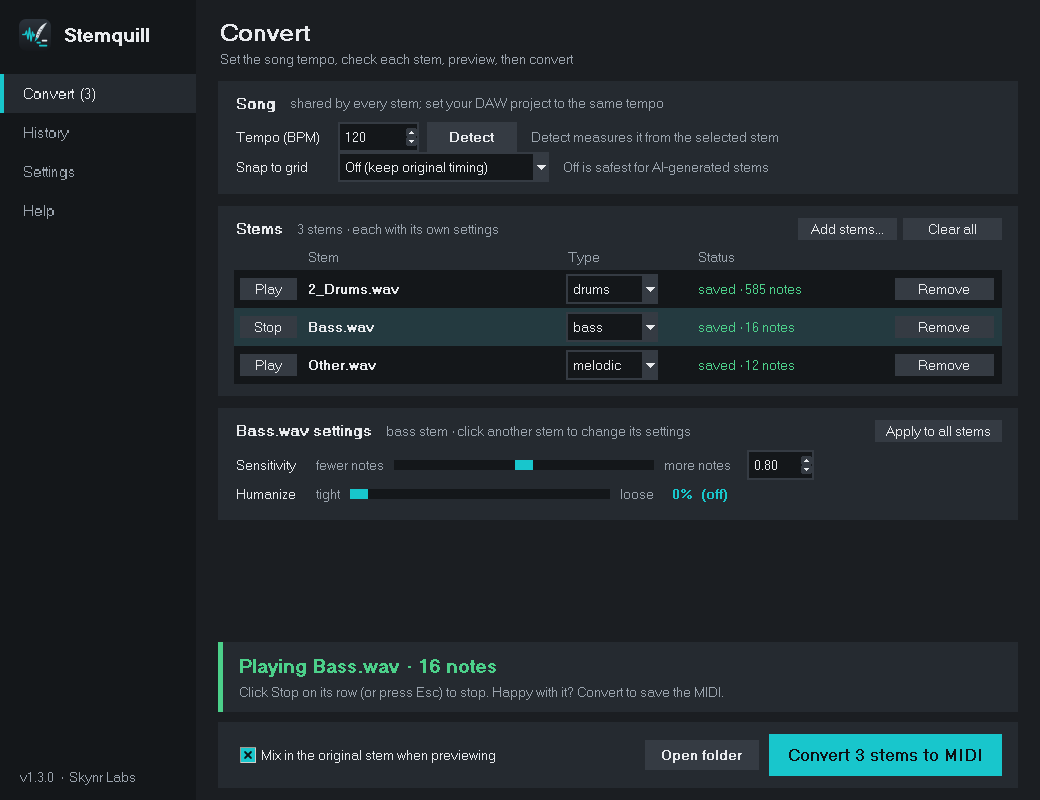
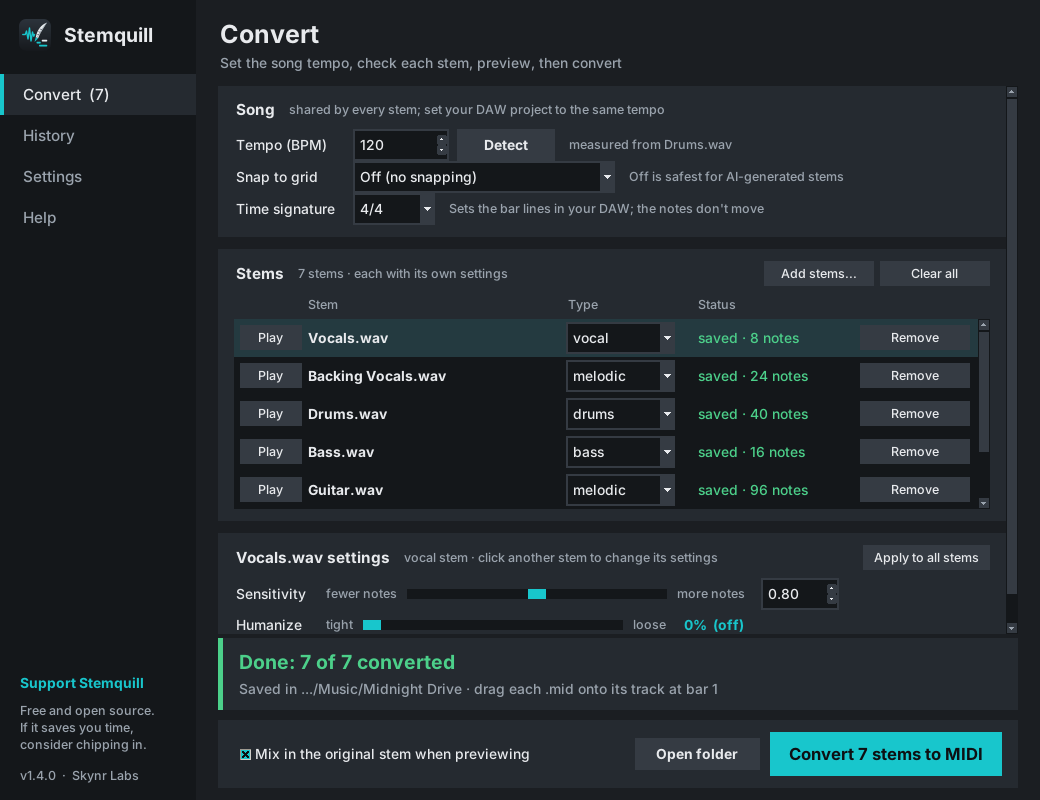
README and CONTRIBUTING for 1.4.0, new screenshot
- README: Suno stems and the stem-name table (type and instrument sound),
  natural vocals and slides, start-up troubleshooting (slow first start,
  crash log, drag and drop off), privacy note covers the crash log and
  cache, project structure, new 1.4.0 screenshot
- CONTRIBUTING: build the installer on GitHub (Run workflow) or on a PC

diff --git a/README.md b/README.md
@@ -23,6 +23,8 @@ Free to download. Pay what you want on [itch.io](https://skynrlabs.itch.io/stemq
 
 Stemquill is a free desktop tool that listens to an audio stem and writes out what it hears as a MIDI file. Drop in a drum stem and you get kick, snare, hats, toms and cymbals on the right notes for your drum plugin. Drop in a bass or vocal stem and you get the melody line. Guitar, keys and synth stems come out as chords.
 
+It's made with AI stems in mind: drop in a whole folder of Suno stems and each one gets the right type and a matching instrument sound, and slightly off-pitch AI vocals still come out as the notes that were sung.
+
 Drag the `.mid` file into Waveform, FL Studio, Ableton, Reaper, Logic, Cubase or any other DAW, put your own instrument on it, and the part is yours to play, edit and rework.
 
 ---
@@ -39,6 +41,8 @@ Stemquill is the bridge: audio in, MIDI out, with a preview so you can hear the 
 
 - 🥁 **Full drum kit detection**: kick, snare, closed and open hi-hat, high/mid/low toms, crash and ride
 - 🎸 **Melodic stems**: bass and vocal lines as single notes, guitar, keys and synths as chords
+- 🎤 **Natural vocals and bass**: corrects a voice that sits a little sharp or flat, holds notes through vibrato, and keeps slides as two notes instead of a run of short ones
+- 🏷 **Knows your stems**: Suno's stem names (Vocals, Backing Vocals, Drums, Percussion, Bass, Guitar, Keyboard, Strings, Brass, Woodwinds, Synth, FX) pick the right type and a matching instrument sound in your DAW
 - ⏱ **Tempo detection**: measures the real BPM from a stem so your MIDI lines up with your DAW grid
 - ▶ **Preview before saving**: play any stem from its row with built-in sounds, with the original stem mixed in to check the timing
 - 🎚 **Humanize**: small timing and velocity changes so parts feel played, not programmed
@@ -99,7 +103,7 @@ python -m stemquill
 
 Everything happens on the **Convert** page, top to bottom:
 
-1. **Drop your stems** (or a whole folder of them) onto the window, or click **Add stems...** (WAV, MP3, FLAC, AIFF, OGG or M4A). Each stem gets its own row. Its type is read from the file name ("Drums", "Bass", "Vocals", "Other"); change it in the row if needed.
+1. **Drop your stems** (or a whole folder of them) onto the window, or click **Add stems...** (WAV, MP3, FLAC, AIFF, OGG or M4A). Each stem gets its own row. Its type is read from the file name (see [Stem names](#-stem-names)); change it in the row if needed.
 2. **Song:** click **Detect** to measure the tempo from the selected stem, or type the BPM. Tempo, **Snap to grid** and **Time signature** are shared by every stem, because it's one song. Get the tempo right: it decides which beat each note lands on.
 3. **Click a stem** to see its own settings underneath: **Sensitivity**, **Humanize** and, for drum stems, which drums to write and the drum map. **Apply to all stems** copies them to the rest.
 4. Click **Play** on a stem's row to hear it with built-in sounds; the button turns into **Stop** while it plays. Keep **Mix in the original stem** ticked to check the timing against the real audio.
@@ -118,6 +122,28 @@ Then set your DAW project to the same tempo and drag each `.mid` onto its instru
 | `vocal` | The lead vocal melody as single notes |
 | `melodic` | Guitar, keys, fiddle and chords (several notes at once) |
 | `synth` | Synths and pads (several notes at once) |
+
+### 🏷 Stem names
+
+Stemquill reads the stem's file name to pick its type and the instrument sound your DAW plays it with. The names cover Suno's stems and the usual names from other splitters:
+
+| File name contains | Type | Sound in your DAW |
+|---|---|---|
+| Drums, Percussion | `drums` | Your drum plugin (channel 10) |
+| Bass | `bass` | Fingered bass |
+| Vocals, Vox, Voice | `vocal` | Choir |
+| Backing Vocals, Harmony, Choir | `melodic` (harmonies are chords) | Choir |
+| Synth, Pad | `synth` | Pad |
+| Keyboard, Keys, Piano | `melodic` | Piano |
+| Organ | `melodic` | Organ |
+| Strings, Violin, Cello | `melodic` | Strings |
+| Brass, Trumpet, Horn | `melodic` | Brass |
+| Woodwinds, Flute, Clarinet | `melodic` | Flute |
+| Sax | `melodic` | Sax |
+| Guitar, or anything else | `melodic` | Guitar |
+| FX | `synth` (with a note that sound effects rarely make useful MIDI) | Pad |
+
+Change a stem's type by hand and it gets that type's usual sound.
 
 ### ⌨ Keyboard shortcuts
 
@@ -196,6 +222,9 @@ Some DAWs name octaves differently, so the same kick note can show as C1 or C2. 
 | Problem | Fix |
 |---|---|
 | **"Windows protected your PC"** when installing | The app isn't code-signed yet. Click **More info → Run anyway**. |
+| The first start is slow | Normal after installing: Windows checks every new file first, and the "Starting Stemquill..." window shows it's on its way. Later starts are much quicker. |
+| Stemquill won't open | End any **Stemquill.exe** in Task Manager and try again. If a message says it couldn't start, send the crash report from `%APPDATA%\Stemquill\crash.log` in [an issue](https://github.com/skynrlabs/Stemquill/issues). |
+| "Drag and drop is off for now" | On some PCs Windows gets stuck turning on drag and drop, so Stemquill started without it. Use **Add stems...**; it tries again after a week, and restarting your PC usually clears it sooner. |
 | MIDI drifts out of time in the DAW | The project tempo doesn't match. Click **Detect** and set your DAW to that exact BPM. If it's half or double what you expect, use the number that matches the song's feel. |
 | Too many junk notes | Click the stem and lower its **Sensitivity** (try 0.6); for drums, untick the drums you don't need. |
 | Missing quiet notes | Click the stem and raise its **Sensitivity** (try 1.0). |
@@ -211,7 +240,8 @@ Still stuck? [Open an issue](https://github.com/skynrlabs/Stemquill/issues) with
 
 ```
 stemquill/
-├── __main__.py          Entry point: `python -m stemquill`
+├── __main__.py          Entry point: `python -m stemquill`, plus the crash log
+├── splash.py            The "Starting Stemquill..." window
 ├── cli.py               Command-line options
 ├── config.py            Drum notes and maps, stem types, saved settings
 ├── core/                The audio engine (no GUI code, usable from scripts)
@@ -240,7 +270,7 @@ stemquill/
 stemquill/assets/        App icon (SVG source, PNGs and Windows .ico)
 tests/                   Tests with synthetic stems (pytest), incl. window tests
 packaging/               Windows build: PyInstaller spec, Inno Setup installer and build.ps1
-.github/workflows/       Lint and tests on Linux
+.github/workflows/       Lint and tests on Linux; the Windows installer build (started by hand)
 docs/                    README screenshot
 ```
 
@@ -270,7 +300,7 @@ convert("Drums.wav", "drums", bpm=bpm, humanize_amount=0.3)
 
 ## 🔐 Privacy
 
-Stemquill runs entirely on your computer. Your audio is never uploaded anywhere. The only file it writes besides your MIDI is a small `settings.json` that remembers your drum map, stored in `%APPDATA%\Stemquill` on Windows, `~/Library/Application Support/Stemquill` on macOS or `~/.config/stemquill` on Linux.
+Stemquill runs entirely on your computer. Your audio is never uploaded anywhere. Besides your MIDI files, it only writes a small `settings.json` with your settings (and a `crash.log` if something goes wrong) in `%APPDATA%\Stemquill` on Windows, `~/Library/Application Support/Stemquill` on macOS or `~/.config/stemquill` on Linux, plus a cache of the audio library's compiled code in your own cache folder. Nothing is sent anywhere, crash reports included: you choose whether to share one.
 
 ---
 

diff --git a/CONTRIBUTING.md b/CONTRIBUTING.md
@@ -47,7 +47,7 @@ Before opening an issue:
 1. Fork the repo and create your branch from `dev`, not `main`.
 2. Name your branch `feature/short-description` or `fix/short-description`.
 3. Keep PRs focused — one feature or fix per PR.
-4. Run the checks locally (see **Tests and lint** below). On GitHub, **Lint and test** must pass. If you change anything in `packaging/`, run `.\packaging\build.ps1` on Windows and say so in the PR.
+4. Run the checks locally (see **Tests and lint** below). On GitHub, **Lint and test** must pass. If you change anything in `packaging/`, run the **Build Windows installer** workflow (or `.\packaging\build.ps1` on Windows) and say so in the PR.
 5. Write a clear PR description — what changed and why. Before/after note counts on a test stem are great for detection changes.
 6. Link any related issue in the PR body (`Closes #123`).
 
@@ -94,10 +94,12 @@ pytest                  # all tests, about 15 seconds
 
 ## Releasing
 
-The Windows installer is built on a Windows PC, not on GitHub (the Actions tab is public, and downloads go through itch.io). You need Python 3.11 or 3.12, [Inno Setup 6](https://jrsoftware.org/isdl.php) and the [Microsoft Visual C++ Redistributable (x64)](https://aka.ms/vs/17/release/vc_redist.x64.exe), which one of the audio libraries needs.
+The Windows installer is built with `packaging/build.ps1`, either on GitHub or on a Windows PC. Both run the same build and checks: the app and the chord add-on convert test stems, and the packaged app opens its window, with and without the add-on.
 
 1. Bump `__version__` in `stemquill/__init__.py`, and get the change into `main` through `dev`.
-2. On `main`, run `.\packaging\build.ps1` in PowerShell. It builds the app and the chord add-on, checks that both convert test stems, and writes `dist\installer\Stemquill-Setup-x.y.z.exe`.
+2. Build the installer, one of two ways:
+   - **On GitHub:** go to **Actions → Build Windows installer → Run workflow** (on `main`). When it finishes, download `Stemquill-Setup-x.y.z` from the run's **Artifacts**. It's kept for one day; the Actions tab is public and downloads go through itch.io, so delete the run once you have it.
+   - **On a Windows PC:** you need Python 3.12 or 3.11 (found through the `py` launcher, so other Python versions can stay installed), [Inno Setup 6](https://jrsoftware.org/isdl.php) and the [Microsoft Visual C++ Redistributable (x64)](https://aka.ms/vs/17/release/vc_redist.x64.exe). Build from a folder on your own drive (not a synced Google Drive or OneDrive folder). On `main`, run `Set-ExecutionPolicy -Scope Process -ExecutionPolicy Bypass`, then `.\packaging\build.ps1`. It writes `dist\installer\Stemquill-Setup-x.y.z.exe`.
 3. Install it and give it a quick try.
 4. On GitHub, go to **Releases → Draft a new release**, create the tag `v` + the version (for example `v1.3.0`), list what changed, and click **Publish release**. Don't attach the installer.
 5. Upload the installer to the [itch.io page](https://skynrlabs.itch.io/stemquill).
